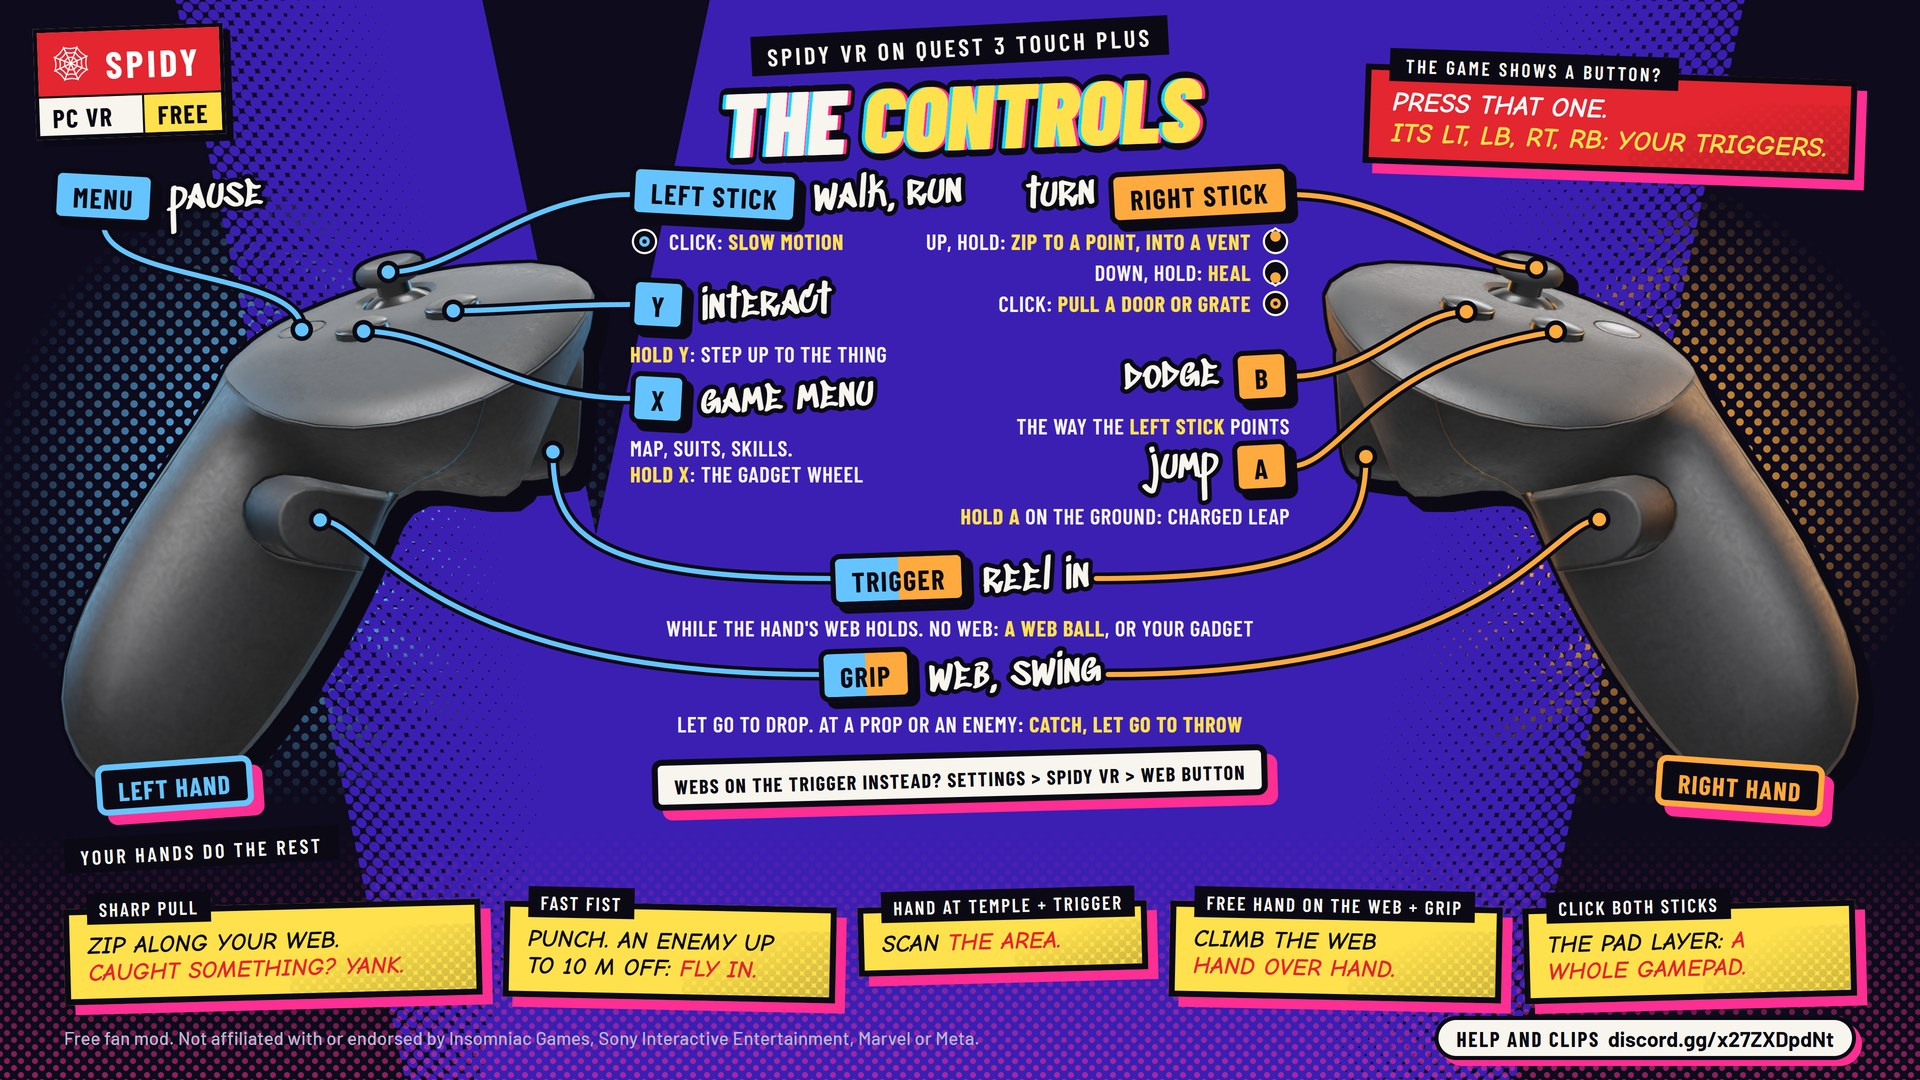
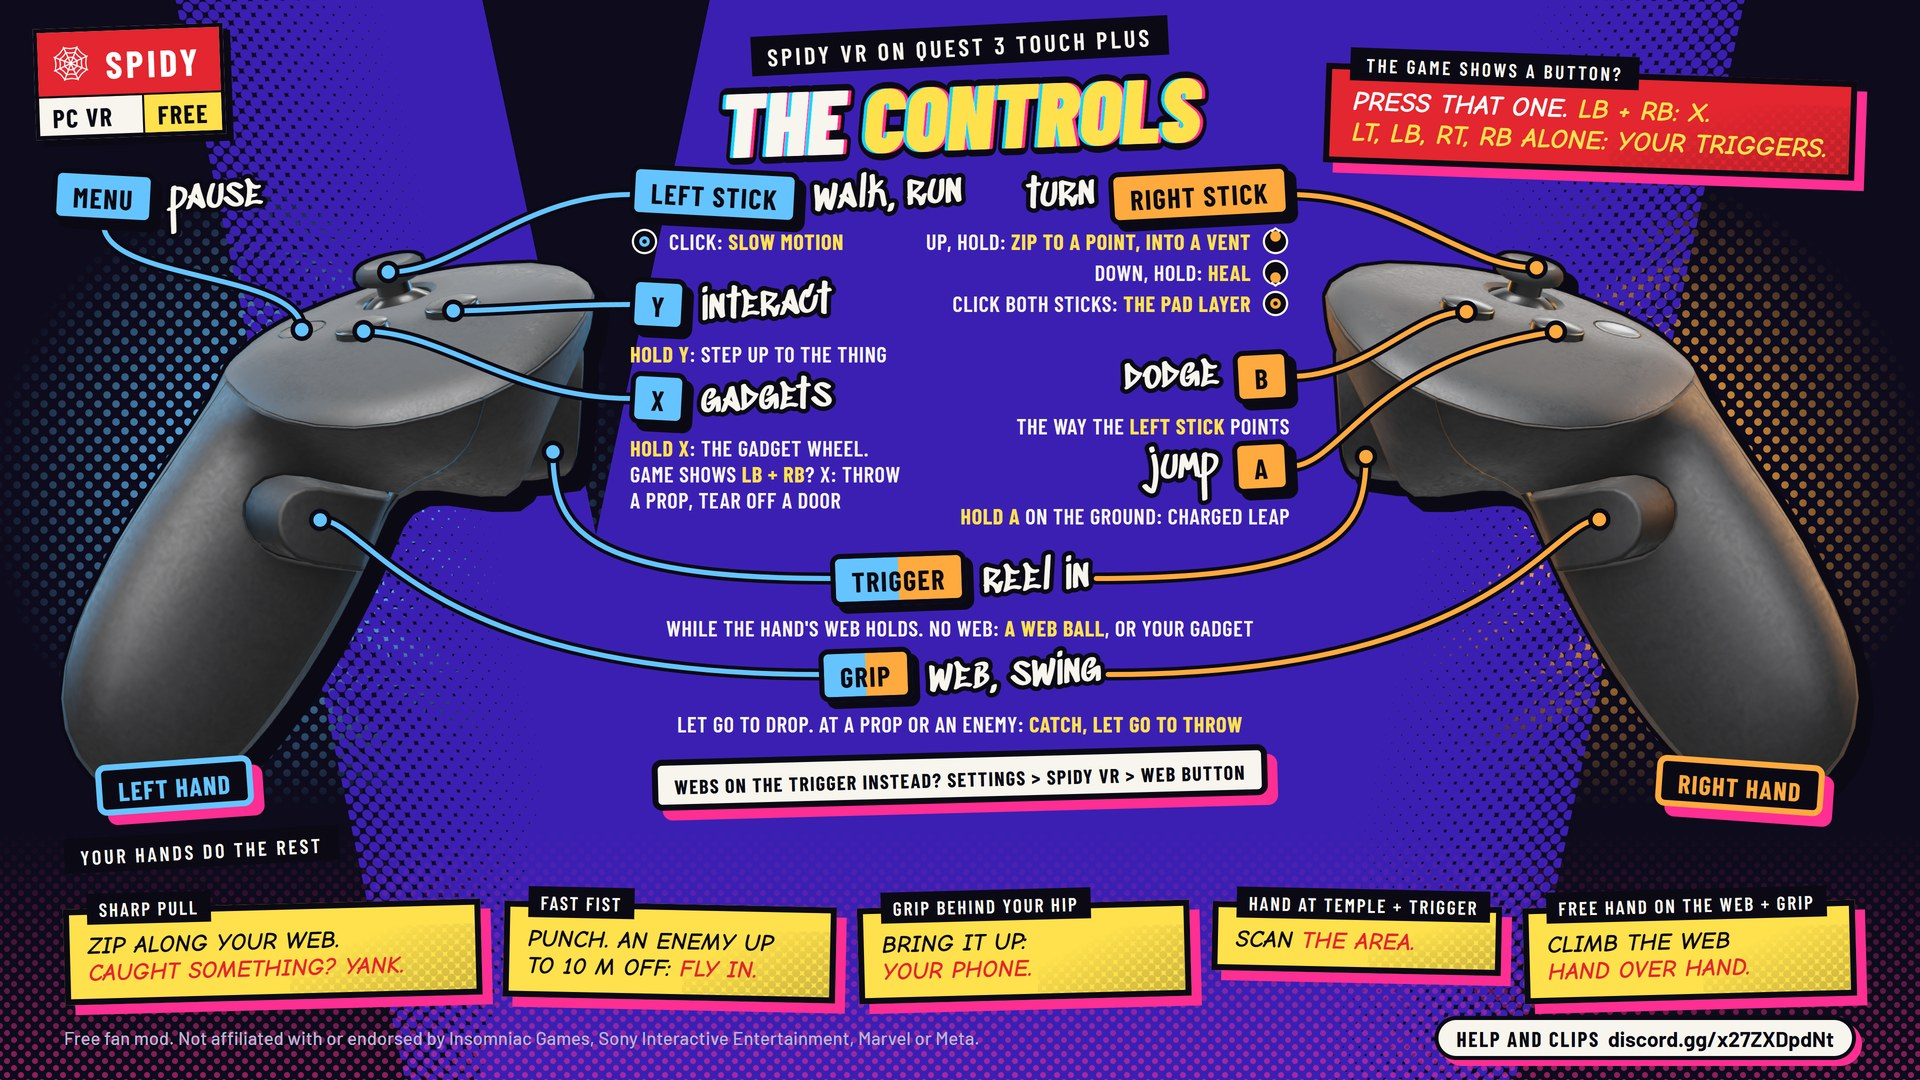
Refactor code structure for improved readability and maintainability

diff --git a/apps/launcher/ui.cpp b/apps/launcher/ui.cpp
@@ -259,8 +259,8 @@ void theme(ImGuiStyle& style) {
     c[ImGuiCol_NavCursor] = vec(kAccentHover);
 }
 
-App::App(HWND window, Fonts fonts, Picture controls, std::string updatedFrom)
-    : window_(window), fonts_(fonts), controlsPicture_(std::move(controls)), settings_(loadSettings()),
+App::App(HWND window, Fonts fonts, std::vector<Picture> controls, std::string updatedFrom)
+    : window_(window), fonts_(fonts), controlsPictures_(std::move(controls)), settings_(loadSettings()),
       installFolder_(installFolder()), updatedFrom_(std::move(updatedFrom)) {
     scanner_.start(settings_);
     refreshProfiles();
@@ -2528,15 +2528,16 @@ void App::controls(ImVec2 origin, ImVec2 size) {
     const float contentWidth = ImGui::GetContentRegionAvail().x - ImGui::GetStyle().ScrollbarSize - S(6);
     const float columnWidth = (contentWidth - gap) * 0.5f;
     columnY[0] = columnY[1] = base.y;
-    // The README's picture of them first, as many pixels wide as it is drawn (never wider than it is), then each
-    // control in words.
-    if (controlsPicture_.texture && controlsPicture_.size.x > 0) {
-        const float width = std::floor(std::min(contentWidth, controlsPicture_.size.x));
-        const float height = std::round(width * controlsPicture_.size.y / controlsPicture_.size.x);
-        if (const ImTextureID texture = controlsPicture_.texture(static_cast<int>(width));
-            texture != ImTextureID_Invalid) {
+    // The README's pictures of them first, one under another, each as many pixels wide as it is drawn (never wider
+    // than it is), then each control in words.
+    for (const Picture& picture : controlsPictures_) {
+        if (!picture.texture || picture.size.x <= 0)
+            continue;
+        const float width = std::floor(std::min(contentWidth, picture.size.x));
+        const float height = std::round(width * picture.size.y / picture.size.x);
+        if (const ImTextureID texture = picture.texture(static_cast<int>(width)); texture != ImTextureID_Invalid) {
             auto* draw = ImGui::GetWindowDrawList();
-            const ImVec2 min(std::round(base.x), std::round(base.y)), max(min.x + width, min.y + height);
+            const ImVec2 min(std::round(base.x), std::round(columnY[0])), max(min.x + width, min.y + height);
             draw->AddImage(ImTextureRef(texture), min, max);
             draw->AddRect(min, max, col(kLine));
             ImGui::SetCursorScreenPos(min);

diff --git a/apps/launcher/ui.hpp b/apps/launcher/ui.hpp
@@ -3,6 +3,7 @@
 #include "update.hpp"
 #include "imgui.h"
 #include <functional>
+#include <vector>
 
 namespace launcher {
 
@@ -30,9 +31,9 @@ void theme(ImGuiStyle& style);
 
 class App {
 public:
-    // `controls`: the README's picture of the controls. `updatedFrom`: the version an update just replaced (the
-    // launcher started again), else empty.
-    App(HWND window, Fonts fonts, Picture controls, std::string updatedFrom = {});
+    // `controls`: the README's pictures of the controls, in their order. `updatedFrom`: the version an update just
+    // replaced (the launcher started again), else empty.
+    App(HWND window, Fonts fonts, std::vector<Picture> controls, std::string updatedFrom = {});
     ~App();
     // Reads the scan, checks and session; runs every loop, even while minimized.
     void poll();
@@ -150,7 +151,7 @@ private:
 
     HWND window_;
     Fonts fonts_;
-    Picture controlsPicture_;
+    std::vector<Picture> controlsPictures_;
     float scale_ = 1;
     Tab tab_ = Tab::play;
     Settings settings_;

diff --git a/apps/launcher/main.cpp b/apps/launcher/main.cpp
@@ -376,9 +376,15 @@ int WINAPI wWinMain(HINSTANCE instance, HINSTANCE, PWSTR, int show) {
 
     std::wstring restartFolder;
     {
-        Picture controls;
-        controls.load(L"PICTURE_CONTROLS");
-        launcher::App application(window, fonts, controls.picture(), updatedFrom);
+        // The README's pictures of the controls: the buttons, the moves, the phone.
+        Picture controls[3];
+        controls[0].load(L"PICTURE_CONTROLS");
+        controls[1].load(L"PICTURE_MOVES");
+        controls[2].load(L"PICTURE_PHONE");
+        std::vector<launcher::Picture> pictures;
+        for (Picture& picture : controls)
+            pictures.push_back(picture.picture());
+        launcher::App application(window, fonts, std::move(pictures), updatedFrom);
         app = &application;
         bool done = false, occluded = false;
         while (!done) {

diff --git a/README.md b/README.md
@@ -198,9 +198,13 @@ Spidy changes nothing in the game's folder.
 ## Controls
 
 <p align="center">
-  <a href="docs/images/readme/controls-quest3.jpg"><img src="docs/images/readme/controls-quest3.jpg" alt="Spidy's controls on Quest 3 Touch Plus controllers. Left: Menu pauses; left stick walks and runs, click for slow motion; Y interacts, hold to step up to the thing; X opens the game menu, hold for the gadget wheel. Right: right stick turns, up and hold to zip to a point or into a vent, down and hold to heal, click to pull a door or grate; B dodges the way the left stick points; A jumps, hold on the ground for a charged leap. Both hands: trigger reels in, or shoots a web ball or your gadget with no web; grip shoots a web and swings, catches a prop or an enemy and throws it on release. With your hands: a sharp pull zips or yanks, a fast fist punches or flies you to an enemy up to 10 m off, a hand at your temple with the trigger scans, a free hand on the web with its grip climbs it, both sticks clicked give a whole gamepad. Where the game shows a button, press that one: its LT, LB, RT and RB are your triggers." width="100%"></a>
+  <a href="docs/images/readme/controls-quest3.jpg"><img src="docs/images/readme/controls-quest3.jpg" alt="Spidy's controls on Quest 3 Touch Plus controllers. Left: Menu pauses; left stick walks and runs, click for slow motion; Y interacts, hold to step up to the thing; X held opens the gadget wheel, and where the game shows LB + RB, X throws a prop or tears off a door. Right: right stick turns, up and hold to zip to a point or into a vent, down and hold to heal; both sticks clicked give the pad layer; B dodges the way the left stick points; A jumps, hold on the ground for a charged leap. Both hands: trigger reels in, or shoots a web ball or your gadget with no web; grip shoots a web and swings, catches a prop or an enemy and throws it on release. With your hands: a sharp pull zips or yanks, a fast fist punches or flies you to an enemy up to 10 m off, a grip behind your hip brought up draws your phone, a hand at your temple with the trigger scans, a free hand on the web with its grip climbs it. Where the game shows a button, press that one: LB + RB is X, and LT, LB, RT or RB alone is one of your triggers." width="100%"></a>
+  <br><br>
+  <a href="docs/images/readme/controls-moves.jpg"><img src="docs/images/readme/controls-moves.jpg" alt="The moves, by where you are. On a web: a sharp pull zips to where the web holds; pull the hand in and the web is a rope you go along; your free hand on the web with its grip takes the same web, to climb hand over hand; with a prop or an enemy on the web, a sharp pull yanks and letting go of the grip throws; swing into a wall and you stay on it, running along it when fast. In a fight: a fast fist lands a blow as hard as it moved; a punch at the ringed enemy up to 10 m off flies you in to strike; swing the way the arrow shows for a called blow (hook, uppercut, blow down), the yellow arrow for the finisher; swing, zip or fall fast into the ringed enemy for a dive kick; both fists down hard in the air with no web is the Ground Strike. Spider-Sense lines over an enemy about to hit you: blue, throw a fist to counter; red, step, lean, duck or press B to dodge; yellow, A to jump over it; swinging or zipping, the web dodges for you. Anywhere: a hand at your temple with its trigger scans; both hands at your chest with both triggers is the suit power, once its meter is full; a grip behind your hip brought up draws your phone; a T-pose with both triggers, when asked, fits the body to your size. Off until switched on in Settings, SPIDY VR: realistic flips (swing your arms in the air to spin) and hand wall climbing (grip a wall and pull)." width="100%"></a>
+  <br><br>
+  <a href="docs/images/readme/controls-phone.jpg"><img src="docs/images/readme/controls-phone.jpg" alt="Your phone, from your back pocket. Draw it: squeeze a grip with that hand behind your hip and bring it up in front, still squeezed; it opens in the hand that drew it. While it is out the stick picks an app or a button, A opens or presses, B goes back or puts the phone away, and the left and right triggers turn the music down and up. Its apps: MUSIC plays your songs (MP3, WAV and more) from the Music folder beside the launcher, and goes on with the phone away; MENU opens the game menu (map, suits, skills), which B closes; GEAR lists each gadget and its charges; CAMERA takes out the game's camera for the research stations' photos: left trigger for the viewfinder, right trigger for the photo, right stick up to put it away." width="100%"></a>
   <br>
-  <sub>Quest 3 Touch Plus shown; Quest 2 and Quest Pro controllers have the same buttons. Steam Frame buttons are in the <a href="docs/PLAYERS.md">players' guide</a>. Since the picture was made, the game menu moved to your phone's MENU, and X (not the right stick's click) pulls a door or a grate where the game shows LB + RB.</sub>
+  <sub>Quest 3 Touch Plus shown; Quest 2 and Quest Pro controllers have the same buttons. Steam Frame buttons are in the <a href="docs/PLAYERS.md">players' guide</a>.</sub>
 </p>
 
 | Do this | With |

diff --git a/docs/CHANGELOG.md b/docs/CHANGELOG.md
@@ -3,7 +3,34 @@
 Every build, newest first, with what changed, why, and what was measured.
 Per-check results are in [VALIDATION.md](VALIDATION.md).
 
-**Latest build (October 25, second): the pad layer shows, and drawing the
+**Latest build (October 25, third): the controls in three pictures.** You:
+"lets update the control infographic and also maybe describe controls in
+context and add the motion actions and what's in the phone".
+
+- **The controls picture is current again.** X: hold it for the gadget
+  wheel, and where the game shows LB + RB it throws a prop or tears off a
+  door (the right stick's click no longer does). Both sticks clicked: the pad
+  layer. The red box: LB + RB is X, and LT, LB, RT or RB alone is one of
+  your triggers. In the row along the bottom the phone, drawn from behind
+  the hip, took the pad layer's place.
+- **The moves, by where you are**, a second picture: what your body does
+  without a button, in four columns (on a web, in a fight, Spider-Sense,
+  anywhere). The ring, a called blow, the finisher and the three
+  Spider-Sense colours are the game's own marks as `spidy_mark_preview`
+  draws them; small figures show the hand at the temple, the hands at the
+  chest, the draw from the back pocket and the T-pose. Realistic flips and
+  hand wall climbing are at the foot, as off until you switch them on.
+- **Your phone**, a third: how to draw it, the keys while it is out, and
+  its four apps (MUSIC, MENU, GEAR, CAMERA), the phone drawn by
+  `spidy_phone_preview` (its sample song named TRACK 03 there).
+- **The README and the launcher's Controls tab show all three**, one under
+  another, before the controls in words.
+- **Checked:** the launcher built (no warnings) and its 32 checks; a test
+  copy's Controls tab shows the three in order. Every line on the pictures
+  checked against [PLAYERS.md](PLAYERS.md). Not run: the game and the
+  headset (nothing in them changed).
+
+**Earlier build (October 25, second): the pad layer shows, and drawing the
 phone leaves it.** You, after the 10:23 session: "I couldn't access the phone
 and some other aspects of the vr mode broke after playing around with
 camera (was fixed by opening and closing the pause menu)".

diff --git a/docs/VALIDATION.md b/docs/VALIDATION.md
@@ -1,6 +1,24 @@
 # Validation — 2026-10-25
 
-## The pad layer's sign; the phone's draw leaves the layer (latest build)
+## The controls in three pictures (latest build)
+
+The user: "lets update the control infographic and also maybe describe
+controls in context and add the motion actions and what's in the phone"
+(CHANGELOG, October 25, third). `docs/images/readme/controls-quest3.jpg`
+(re-shot), `controls-moves.jpg` and `controls-phone.jpg` (new), `README.md`,
+`apps/launcher/launcher.rc` (`PICTURE_MOVES`, `PICTURE_PHONE`),
+`apps/launcher/main.cpp`, `apps/launcher/ui.hpp`, `apps/launcher/ui.cpp`
+(`App` takes a list of pictures), `CMakeLists.txt` (the launcher's resources
+depend on every `controls-*.jpg`).
+
+| | |
+| --- | --- |
+| Pictures | Each rendered at 3840 x 2160 and scaled to 1920 x 1080, JPEG quality 88 (529, 580 and 512 kB). Every line checked against PLAYERS.md's CONTROLS. The marks: `spidy_mark_preview` (this checkout, built October 25) over black and over white, the difference kept as transparency. The phones: `spidy_phone_preview` from a scratch copy whose sample song is TRACK 03 (the checkout's names a film's song). |
+| Build | `cmake --build build\windows-ninja --target spidy_launcher spidy_launcher_tests`: no warnings at /W4. Launcher tests 32/32. The built exe holds `PICTURE_CONTROLS`, `PICTURE_MOVES` and `PICTURE_PHONE`, each the whole file. |
+| Launcher | A copy in `build\launcher-check`, off-screen: the Controls tab shows the three pictures one under another, then the words; scrolled through with the wheel. `%APPDATA%\Spidy` unchanged after (hashes). |
+| Not run | The game and the headset: nothing in them changed. |
+
+## The pad layer's sign; the phone's draw leaves the layer (the build before)
 
 The user: "I couldn't access the phone and some other aspects of the vr mode
 broke after playing around with camera (was fixed by opening and closing the

diff --git a/docs/DEVELOPMENT.md b/docs/DEVELOPMENT.md
@@ -88,10 +88,13 @@ gradient would. `ui.cpp` draws it with ImGui's draw lists.
   session that fails marks the step it reached, and its error, offers (copy
   the log, ask on the Discord, restart as administrator, close the game) and
   the narrator's red line take the steps' place when the panel is short.
-- **The controls picture** is `docs/images/readme/controls-quest3.jpg`, the
-  README's, compiled in. `main.cpp` decodes it with WIC and scales it to the
-  pixels it is drawn at, since ImGui's DX11 sampler reads one mip level only.
-  When a control changes, the picture is re-rendered for both.
+- **The controls pictures** are the README's three, compiled in:
+  `docs/images/readme/controls-quest3.jpg` (the buttons), `controls-moves.jpg`
+  (what the body does, by where you are) and `controls-phone.jpg` (the
+  phone's draw and apps), drawn one under another in that order. `main.cpp`
+  decodes each with WIC and scales it to the pixels it is drawn at, since
+  ImGui's DX11 sampler reads one mip level only. When a control changes, the
+  picture that shows it is re-rendered for both.
 
 ### Settings profiles
 
